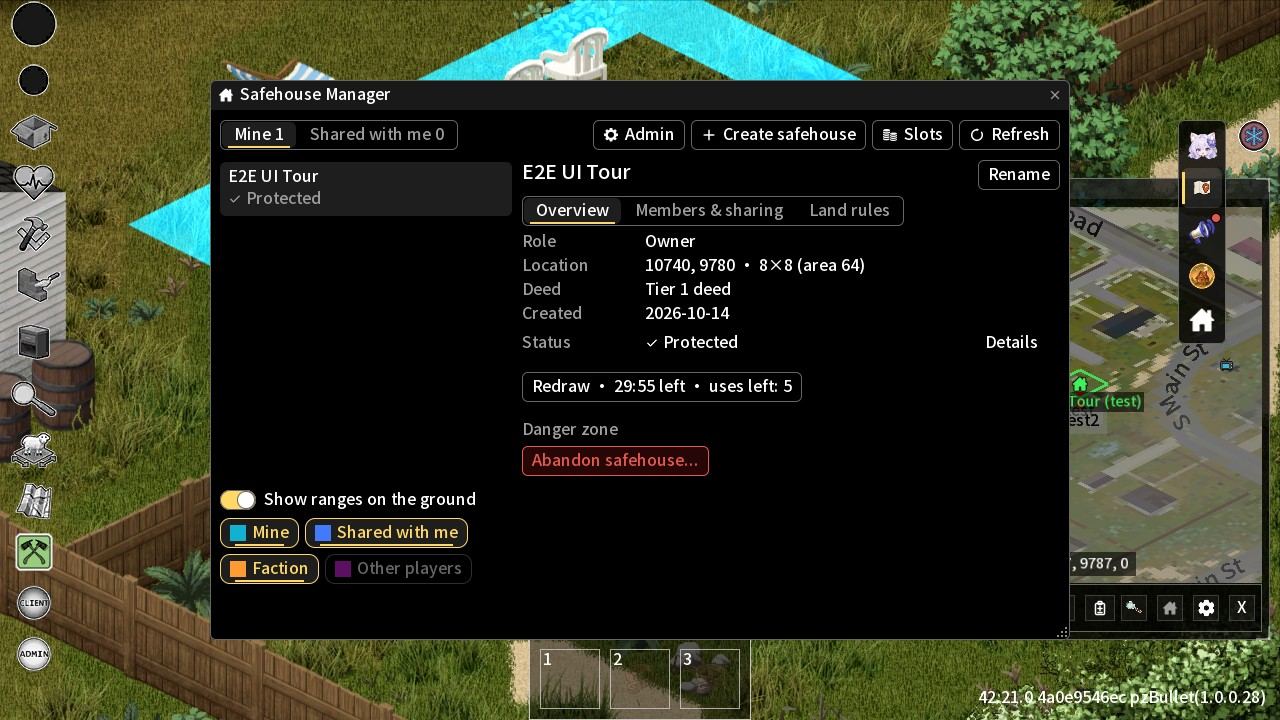
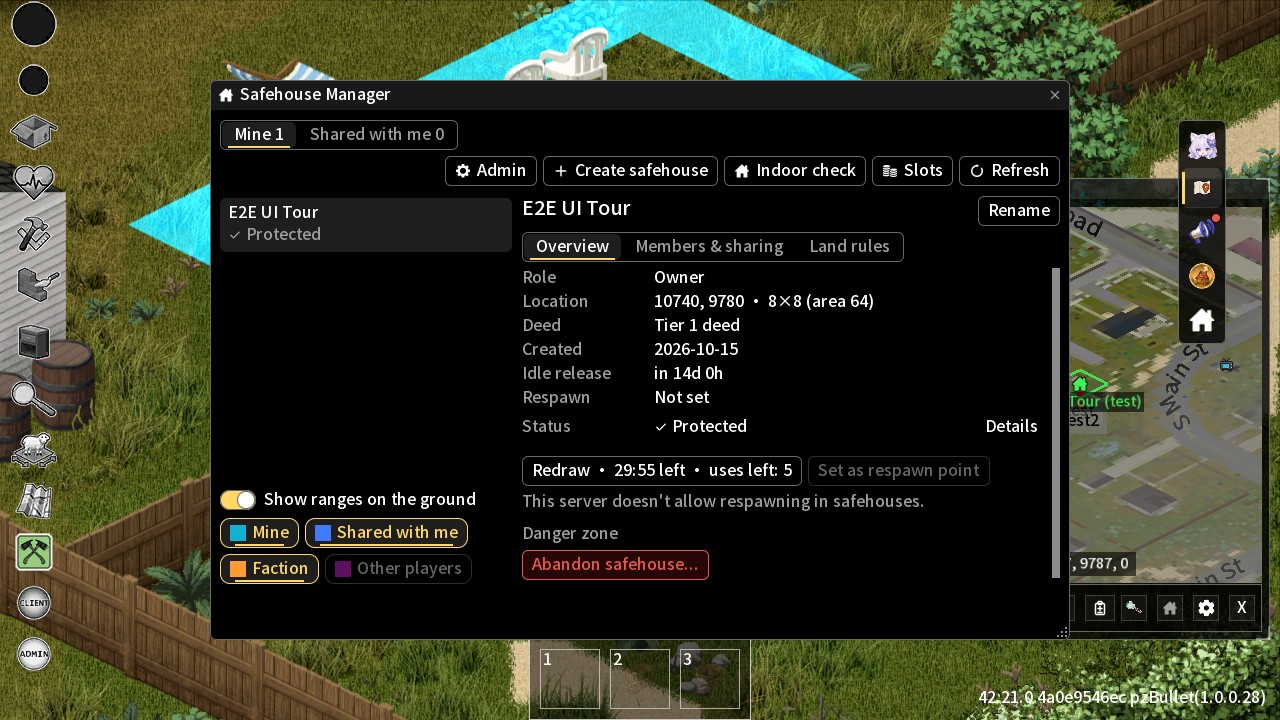
Steam 指南與作品頁截圖：室內檢查獨立一章，管理視窗截圖換成有〔室內檢查〕的新版
0.5.0 發車後補（使用者：「幫我看看指南跟workshop截圖是否需要新增」）。

- 指南兩份：室內檢查從「安全屋管理視窗」章底下的小段改成自己一章「🧰 室內檢查」（20 章），開頭放面板與地上標示
  的圖（11-indoor），「找出原因」前放缺牆牆影的圖（12-indoor-gap）；內文不變。
- 截圖：01-overview、05-land-rules、06-share、08-slots 中英重拍。管理視窗上列多了〔室內檢查〕，概覽多了閒置
  收回與重生點兩列；英文的上列按鈕換到分頁列下面另起一排。來源 ui-mp CH sh-rel5-uich-1015a、EN
  sh-rel5-uien-1015a（1280x720、字型 100%，兩輪都是 A 43 步／78 檢查、B 10 步／12 檢查，沒有 UIERR），照
  safehouse-e2e 的裁切表裁。
- 新增 11-indoor、12-indoor-gap 中英：indoor-mp CH sh-indoor-shotch-1015b、EN sh-indoor-shoten-1015b
  （1280x720、晴天、關掉 SafeSpawn 的出生保護，14 步／39 檢查），裁 (380,118)-(1224,612)。每張 ≤280,000 bytes。

diff --git a/STEAM_GUIDE_EN.md b/STEAM_GUIDE_EN.md
@@ -293,11 +293,16 @@ A switch under the list (on by default) outlines the safehouses near you on the 
 [*] [b]Paused[/b]: while the safehouse is released or suspended, or you've been removed as a member, you spawn the vanilla way; it works again once you have access back.
 [*] [b]Server must allow it[/b]: with the vanilla server option SafehouseAllowRespawn off, it can't be set and isn't used.
 [/list]
-[h3]Indoor check[/h3]
+=== 🧰 Indoor check
+{{img:11-indoor-en.jpg}}
+Find out whether a house you built counts as indoors on a multiplayer server (warmth, shelter from the wind, body temperature), and where it falls short when it doesn't.
 [list]
 [*] [b]Open it[/b]: right-click the floor and choose "Check if this counts as indoors" (checks the tile you clicked), or press "Indoor check" in the Safehouse Manager (checks the tile you stand on).
 [*] [b]Result[/b]: counts as indoors, gap in the walls, roof isn't finished, only part of it has a roof, only under a roof, or outdoors.
 [*] [b]What counts[/b]: the room must be closed in on all sides (walls, door frames, window frames and fences all count, even with the door open or the glass removed), and every tile needs a floor on the level right above. With one roof tile missing, body temperature and wind chill follow the outdoors for the whole room.
+[/list]
+{{img:12-indoor-gap-en.jpg}}
+[list]
 [*] [b]Finding the cause[/b]: it lists the missing wall and roof tiles and how far away they are; with "Mark the spots on the ground" on, the floor of the area that was checked turns slightly darker, missing roof tiles turn the floor red and missing walls show as red wall outlines.
 [*] [b]The same building[/b]: the other rooms are listed too; click one to look at it. On the same floor it follows the connected roof, and up and down it follows the floors, so every floor is checked; with more than one floor, each row says which floor, and the marks on the ground move to the floor of the room you're looking at. A flat roof with nothing built on top doesn't count as a floor; a roof that sticks out past the walls, or a porch, shows as "Under the eaves".
 [*] [b]Rechecks by itself[/b]: while the window is open, it checks again when walls or floors nearby change; once you close it, nothing is checked in the background.

diff --git a/STEAM_GUIDE.md b/STEAM_GUIDE.md
@@ -293,11 +293,16 @@ https://steamcommunity.com/sharedfiles/filedetails/?id=3819478078
 [*] [b]暫時失效[/b]：安全屋被放棄或停用、你被移出成員時，照原版方式出生；恢復後又能用。
 [*] [b]伺服器要開放[/b]：原版伺服器設定 SafehouseAllowRespawn 關著時不能設定，也不套用。
 [/list]
-[h3]室內檢查[/h3]
+=== 🧰 室內檢查
+{{img:11-indoor-zh.jpg}}
+判斷自己蓋的房子在多人伺服器上算不算室內（保暖、擋風、體溫照室內算），不算時找出缺在哪裡。
 [list]
 [*] [b]開啟[/b]：在地上按右鍵選「檢查這裡算不算室內」（查點到的那格），或在管理視窗按〔室內檢查〕（查站的那格）。
 [*] [b]結論[/b]：算室內、牆有缺口、屋頂沒蓋滿、只有一部分有屋頂、屋簷下或室外。
 [*] [b]怎樣算室內[/b]：四面圍起來（牆、門框、窗框、圍籬都算，門開著、玻璃拆了也算），而且每一格正上方那一層都有地板。缺一格屋頂，整個房間的體溫、風寒都照室外算。
+[/list]
+{{img:12-indoor-gap-zh.jpg}}
+[list]
 [*] [b]找出原因[/b]：列出缺幾格牆、缺幾格屋頂、離你多遠；勾著「在地上標出位置」時，這次檢查到的範圍地板稍微變暗，缺屋頂的格子地板染紅，缺牆的地方畫出紅色牆影。
 [*] [b]同一棟[/b]：其他房間一起列出，點一下換看那一間。同一層沿著相連的屋頂找，樓上樓下沿著樓板找，每一層都分析，有不只一層時前面寫第幾樓；換看別層的房間時，地上的標示跟著換到那一層。單層房子屋頂上的平台不算一層；比牆多一圈的屋頂、門廊這類只有屋頂的地方寫「屋簷下」。
 [*] [b]自動重查[/b]：面板開著時，附近的牆或地板有變動就自己重新檢查；關掉面板後不會在背景檢查。
